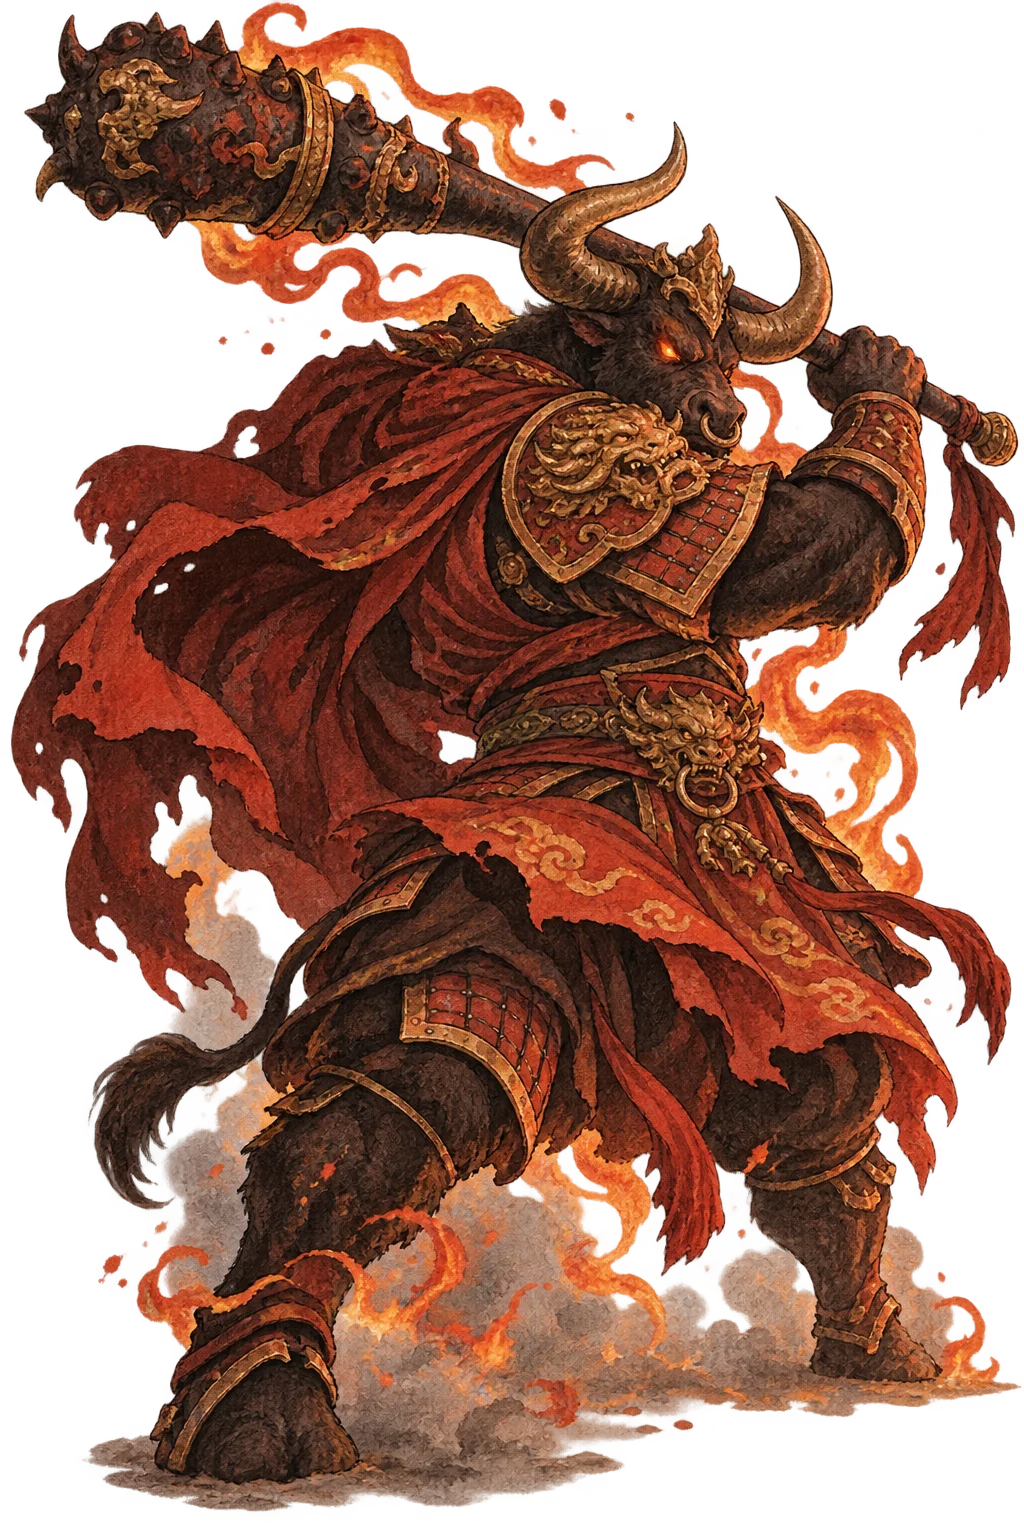
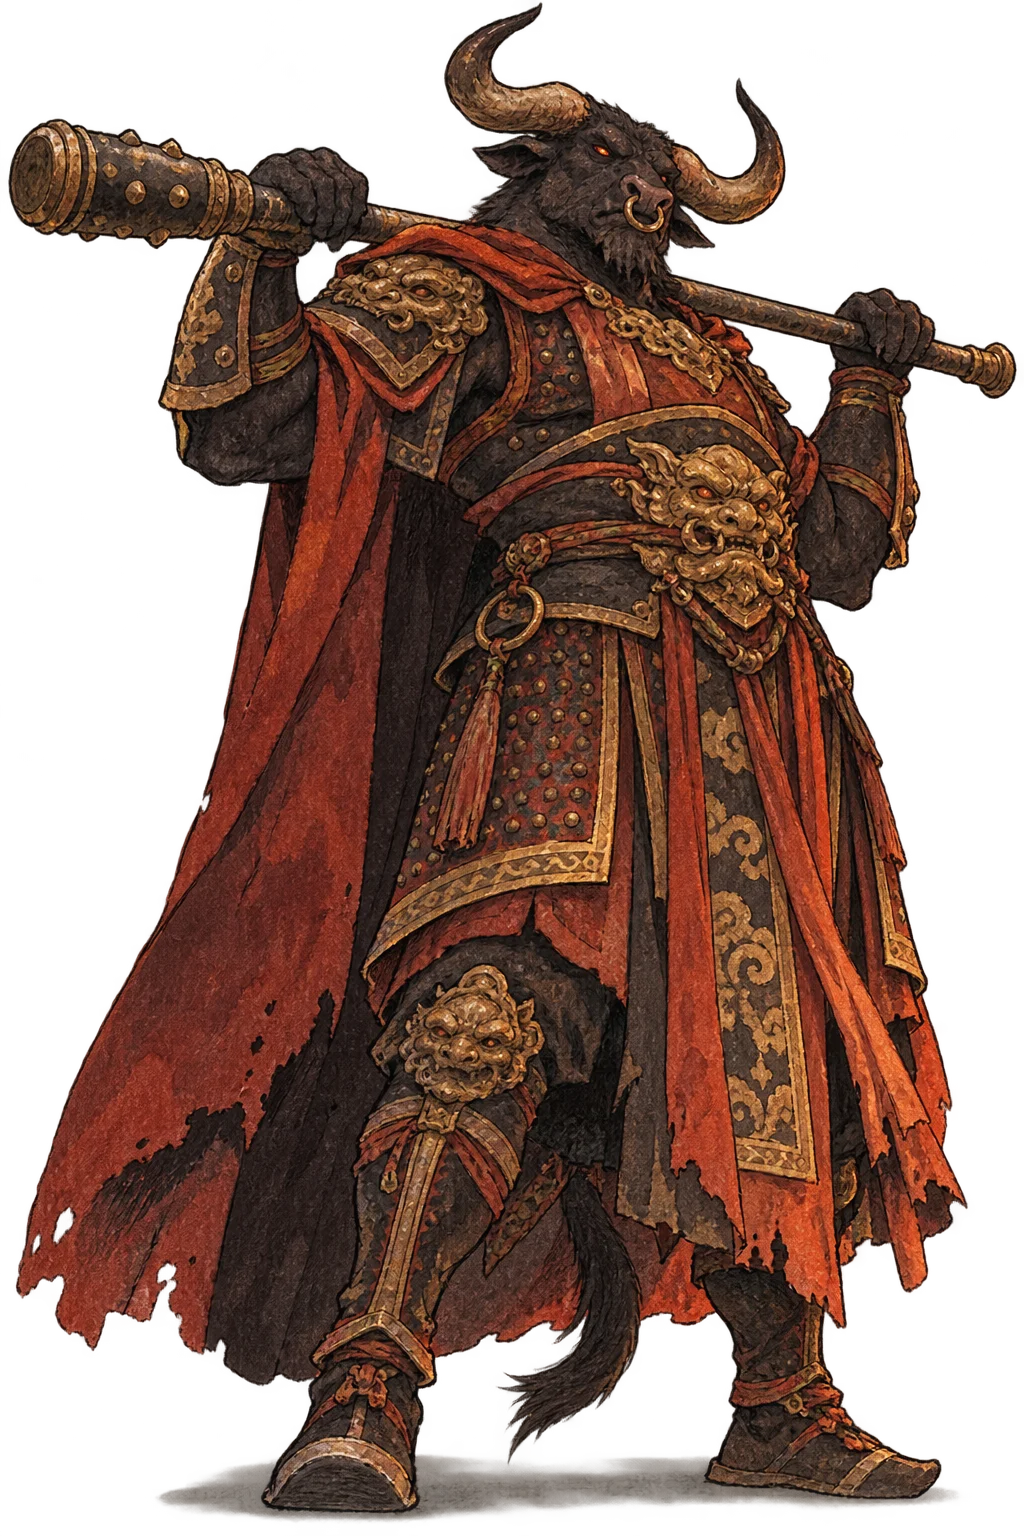
Enemy figures round four: casual, confident poses looking at the player, no smoke at the feet

diff --git a/art/build_manifest.py b/art/build_manifest.py
@@ -822,39 +822,41 @@ FIGURE_BASE = (
     'card with slightly faded, misregistered colour, in the limited palette given below. Absolutely not realistic: no '
     'realistic lighting or anatomy rendering, no glossy highlights, no glow, no soft gradients, no fine fur or skin '
     'detail, no oil-painting look, no 3D, no digital painting, not modern concept art or AI art. '
-    # Ben, round three: not head-on, more depth, and it must look painted into its scene rather than pasted on.
-    'Seen in three-quarter view from slightly below, turned partly away and caught mid-action in a dramatic, '
-    'dynamic pose: never standing straight, never facing the viewer head-on like an avatar. Give it real depth and '
-    'volume: overlapping forms, foreshortening, and shading washes and ink hatching that model the body in light '
-    'and shadow, lit by the light of its scene (given below), as if painted into the same picture as the backdrop; '
-    'still hand-drawn, never glossy, airbrushed or rendered. A soft, semi-transparent painted shadow on the ground '
-    'under the feet and a few wisps of the scene\'s own atmosphere (smoke, mist or embers) around the lower legs, '
-    'so the figure sits in the scene. The whole figure fits inside the frame. '
-    'Cut out cleanly on a fully transparent background apart from that shadow and those wisps: no scenery, no '
-    'moon, sun, fire or other light source drawn in (the backdrop already has it), no frame, no text.'
+    # Ben, round four: casual and confident rather than mid-attack, eyes on the player, no smoke at the feet.
+    'The body is seen in three-quarter view from slightly below, angled away from the viewer, but the head is turned '
+    'and the eyes look straight at the viewer, sizing them up. A relaxed, casual, confident pose, at ease and '
+    'completely sure of itself: standing or leaning with its weight on one leg, its weapon resting or held loosely, '
+    'not attacking, not lunging, not shouting. Menace through calm. Give it depth and volume: overlapping forms and '
+    'shading washes and ink hatching that model the body in light and shadow, lit by the light of its scene (given '
+    'below), as if painted into the same picture as the backdrop; still hand-drawn, never glossy, airbrushed or '
+    'rendered. Only a faint, soft, semi-transparent painted shadow on the ground under the feet; no smoke, mist, dust '
+    'or embers anywhere. The whole figure fits inside the frame. '
+    'Cut out cleanly on a fully transparent background apart from that shadow: no scenery, no moon, sun, fire or '
+    'other light source drawn in (the backdrop already has it), no frame, no text.'
 )
 # hero -> id -> (opponent name exactly as in the game, its backdrop's id in scenes.json, subject)
 FIGURES = {
     'ody': {'poly': ('Polyphemus', 'polyphemus', 'Polyphemus the Cyclops of Homer\'s Odyssey: a towering, hairy shepherd giant with a '
                      'single huge glaring eye in the middle of his brow, wild black beard, a sheepskin over his shoulders, '
-                     'striding out of the shadows with the olive-trunk club swung back over his shoulder and one huge '
-                     'hand reaching forward, a ram shying away at his feet, roaring. Greek in every detail. Light: the red '
+                     'leaning on his great olive-trunk club planted beside him like a staff, his free hand resting on '
+                     'the head of a ram at his side, a slow grim smile under the beard. Greek in every detail. Light: the red '
                      'glow of the hearth fire from the lower left.')},
     'odin': {'fenrir': ('Fenrir\'s Brood', 'fenrir', 'The wolf-brood of Fenrir from Norse myth: a gigantic black wolf with burning '
                         'yellow eyes and bared fangs, frost on its fur, a broken silken fetter hanging from its neck, '
-                        'prowling sideways with its head low and turned, hackles raised, two snarling cubs flanking it. '
+                        'standing at ease with one forepaw raised on a rock, head turned to watch the viewer with a low, '
+                        'patient stare, lips just parted over the fangs, two cubs sitting at its feet. '
                         'Norse in every detail. Light: a blood-red moon behind it from the upper right, catching the edges '
                         'of its fur.')},
     'wukong': {'bulldemon': ('The Bull Demon King', 'bulldemon', 'The Bull Demon King of Journey to the West: a huge demon king with '
                              'the head of a black bull and great curved horns, burning eyes, in red-and-gold lacquered '
-                             'armour and a swirling cape, turning in a wide stance with the iron cudgel raised behind him '
-                             'for a blow, flames curling around him. Chinese, Ming dynasty, with the brush rhythm of Chinese '
+                             'armour and a long cape, standing tall with the iron cudgel resting across his shoulders and '
+                             'both hands hooked over it, chin raised, looking down at the viewer with contempt. Chinese, Ming dynasty, with the brush rhythm of Chinese '
                              'painting. Light: the glow of lava from the right.')},
     'thoth': {'sekhmet': ('Sekhmet, the Eye of Ra', 'sekhmet', 'Sekhmet, the lioness-headed Egyptian goddess of war and plague: '
                           'a tall powerful woman with the head of a fierce lioness crowned by a blazing red sun disc and a '
-                          'rearing cobra, in a red linen dress and a broad collar of gold and lapis, striding forward in '
-                          'three-quarter profile with the sceptre swung back in one hand, head turned to roar, heat haze '
-                          'around her. Ancient Egyptian in every detail. Light: the blazing sun above and behind her, hot '
+                          'rearing cobra, in a red linen dress and a broad collar of gold and lapis, standing in '
+                          'three-quarter profile with her weight on one hip, the sceptre held loosely at her side, head '
+                          'turned toward the viewer with a cool, predatory stare, mouth closed. Ancient Egyptian in every detail. Light: the blazing sun above and behind her, hot '
                           'light along her edges.')},
 }
 
